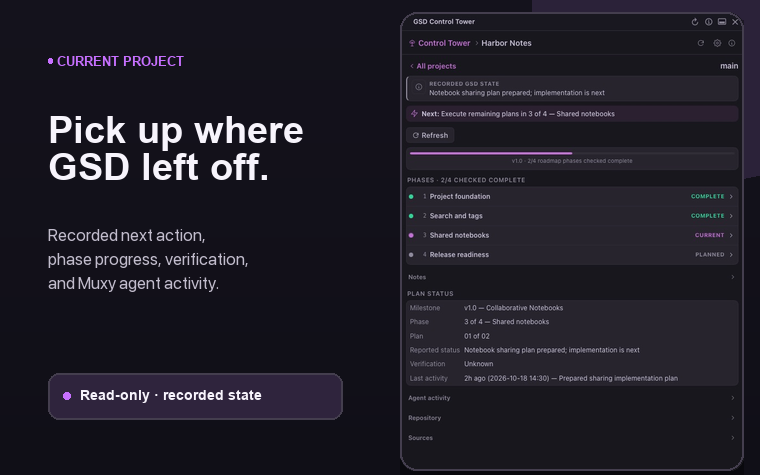
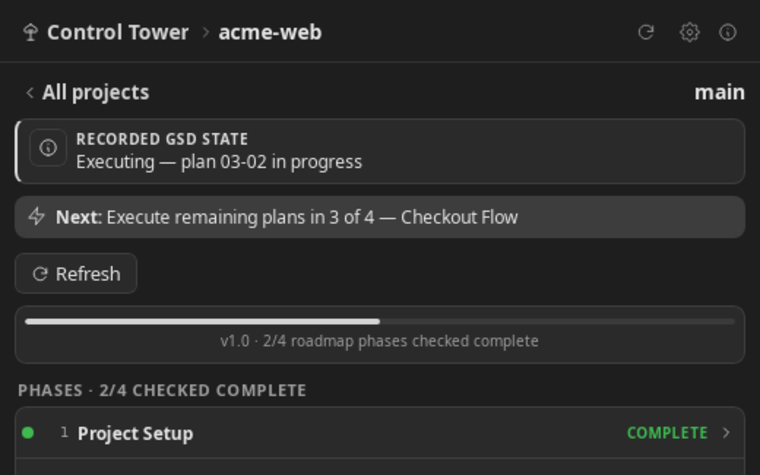
gsd-control-tower 0.3.1

diff --git a/extensions/gsd-control-tower/test/release-validator.test.js b/extensions/gsd-control-tower/test/release-validator.test.js
@@ -23,7 +23,7 @@ test("release secret scan excludes private planning inputs and finds no credenti
 
 test("release governance freezes versions, CI authority, and handoff docs", async () => {
   const governance = await validateReleaseGovernance();
-  assert.equal(governance.version, "0.3.0");
+  assert.equal(governance.version, "0.3.1");
 });
 
 test("release validator owns isolated-copy cleanup and deterministic comparison", async () => {

diff --git a/extensions/gsd-control-tower/README.md b/extensions/gsd-control-tower/README.md
@@ -110,3 +110,7 @@ npm run validate
 `npm run build` creates the marketplace package in `dist/`. `npm run validate` checks the manifest, listing assets, permissions, source graph, secret safety, and reproducible build output.
 
 Release history and the marketplace handoff process are documented in [CHANGELOG.md](CHANGELOG.md) and [RELEASING.md](RELEASING.md).
+
+## Credits
+
+Originally published in muxy-app/extensions (MIT) by Gabe. Maintained by Atur Terminal.

diff --git a/extensions/gsd-control-tower/CHANGELOG.md b/extensions/gsd-control-tower/CHANGELOG.md
@@ -6,6 +6,13 @@ project adheres to [Semantic Versioning](https://semver.org/spec/v2.0.0.html).
 
 ## [Unreleased]
 
+## [0.3.1] - 2026-10-30
+
+### Changed
+
+- Replaced the marketplace and README screenshots with renders of the current panel using sample data.
+- Credits and listing maintainer updated; Atur Terminal now maintains the marketplace listing.
+
 ## [0.3.0] - 2026-10-18
 
 ### Added
